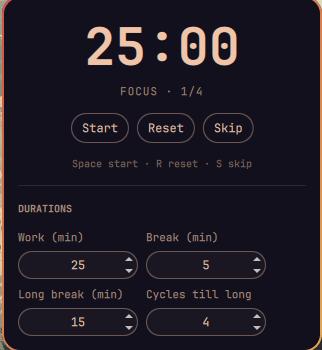
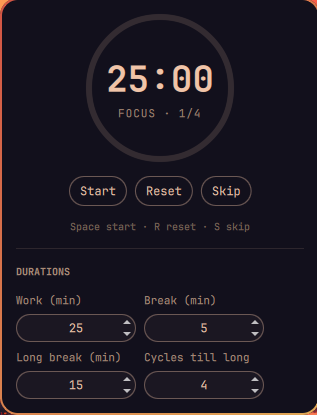
Update screenshots for the progress ring
preview.png and assets/screenshot-panel.png replaced with fresh shots
of the popup now that it has the ring behind the countdown; added
assets/screenshot-bar.png, a close-up of the bar widget mid-focus
showing the small ring next to the digits, which had no screenshot at
all before now.

Assets only, no plugin code touched.

Claude-Session: https://claude.ai/code/session_01Wdibia6vTXVk5CLXb1dfnz

diff --git a/README.md b/README.md
@@ -9,6 +9,8 @@ the work/break/long-break durations plus how many work cycles happen before
 a long break. Fully theme-compatible: all colors and sizes come from
 `qs.Commons`/`qs.Ui` design tokens (`Color.*`, `Style.*`), never hardcoded.
 
+![The bar widget mid-focus, ring partway around the digits](assets/screenshot-bar.png)
+
 ![The popup open over the Omarchy bar](preview.png)
 
 ## Install
@@ -79,7 +81,7 @@ With the popup focused:
 | `S` | Skip the current phase |
 | `Esc` | Close the popup |
 
-<img src="assets/screenshot-panel.png" alt="The Pomodoro popup, close up" width="322">
+<img src="assets/screenshot-panel.png" alt="The Pomodoro popup, close up" width="317">
 
 The duration fields are editable, so the popup stops reading these as
 shortcuts while one of them has focus.
